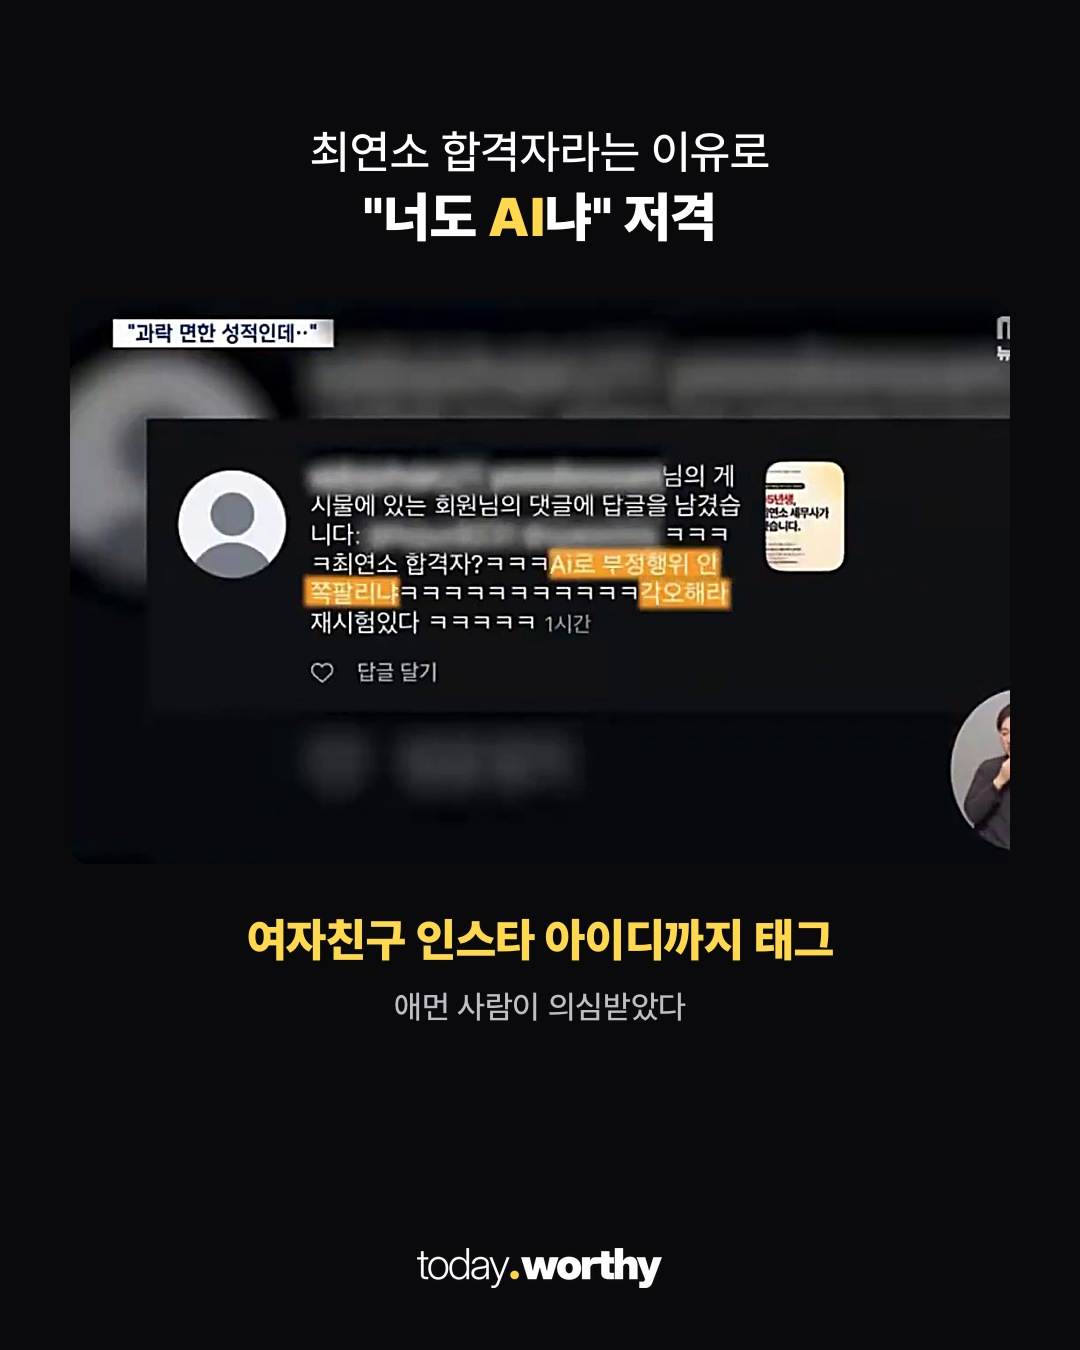
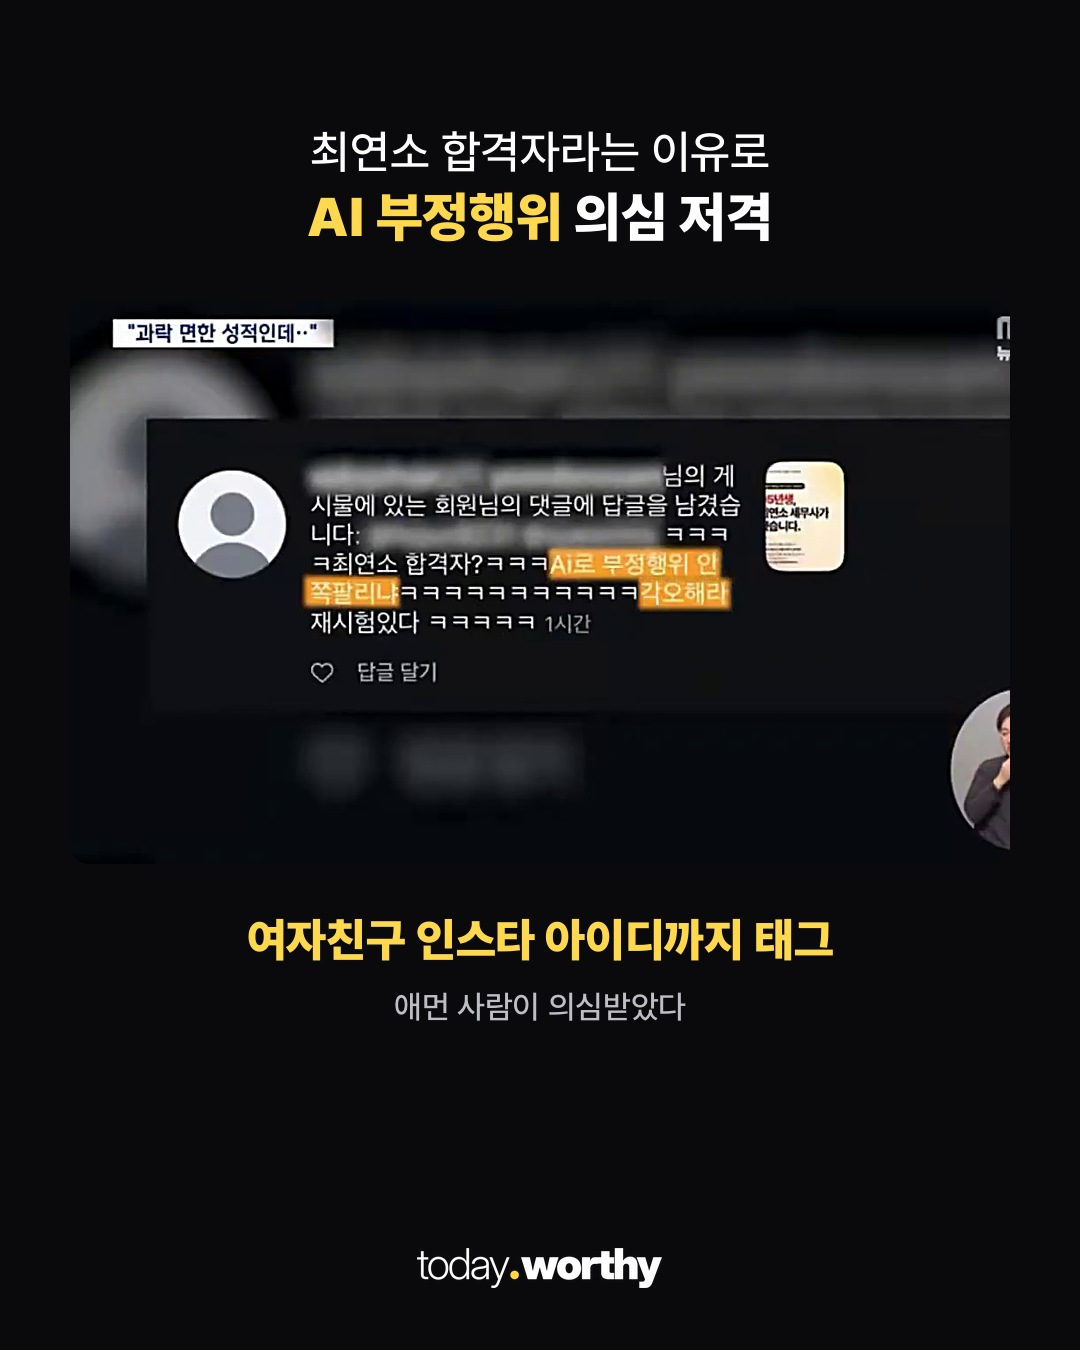
taxyoung-c: 3장 지어낸 따옴표 빼고 캡션 인용을 방송 자막대로, 승인 대기로 보냄
Claude-Session: https://claude.ai/code/session_01FGsw5SxBSM2MD7US2amqEo

Changed region(s): [[0.275, 0.1244, 0.7333, 0.1867]]

diff --git a/media/20261117-taxyoung-c/build_cards.py b/media/20261117-taxyoung-c/build_cards.py
@@ -74,7 +74,7 @@ sh = lambda im: im.filter(ImageFilter.UnsharpMask(2, 70, 2))
 full = lambda n: sh(fit(op(n).crop((0, 0, 1060, 636)), 940, 564))
 frame(("세무냥이 불똥에 공개된 성적", "722명 중 '518등'"), full("f31.png"),
       "한 과목은 '겨우' 과락 면했다", "MBC 뉴스데스크(11.17)").save(O / "c02.jpg", quality=93)
-frame(("최연소 합격자라는 이유로", "\"너도 'AI'냐\" 저격"), full("f5.png"),
+frame(("최연소 합격자라는 이유로", "'AI 부정행위' 의심 저격"), full("f5.png"),
       "여자친구 인스타 아이디까지 '태그'", "애먼 사람이 의심받았다").save(O / "c03.jpg", quality=93)
 frame(("결국 공부한 책을", "'캐리어'째 들고 왔다"), full("f17.png"),
       "학원 별명은 '지박령'", "동료 수강생 인터뷰").save(O / "c04.jpg", quality=93)
